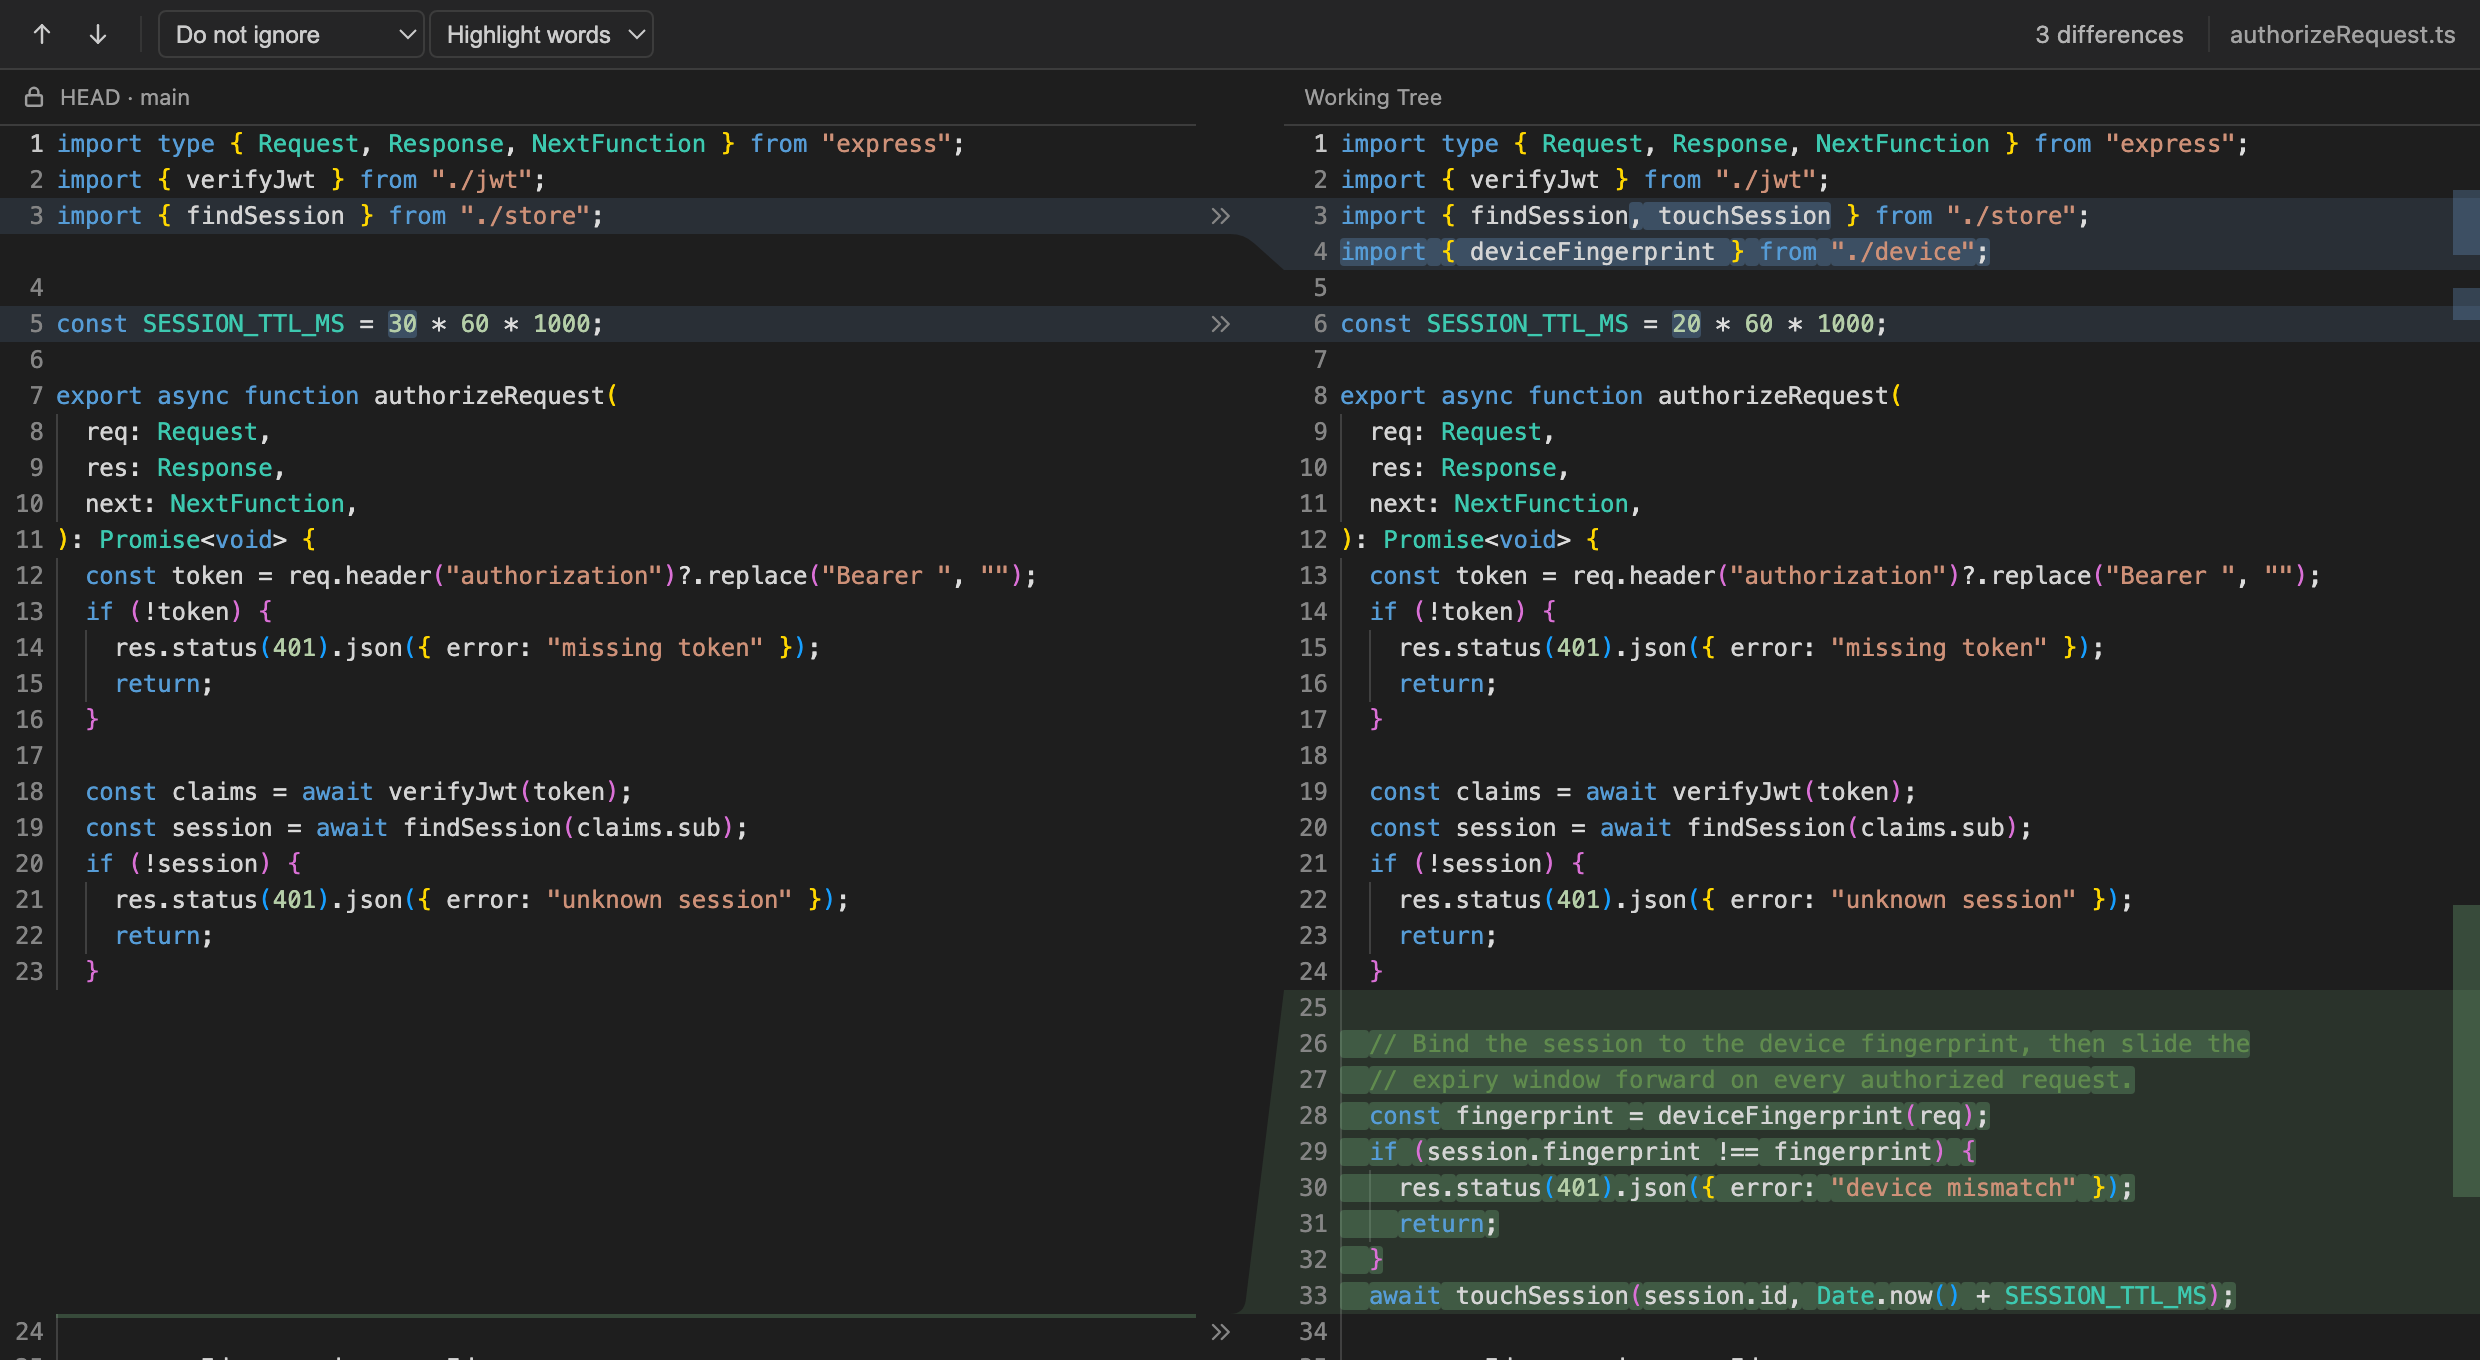
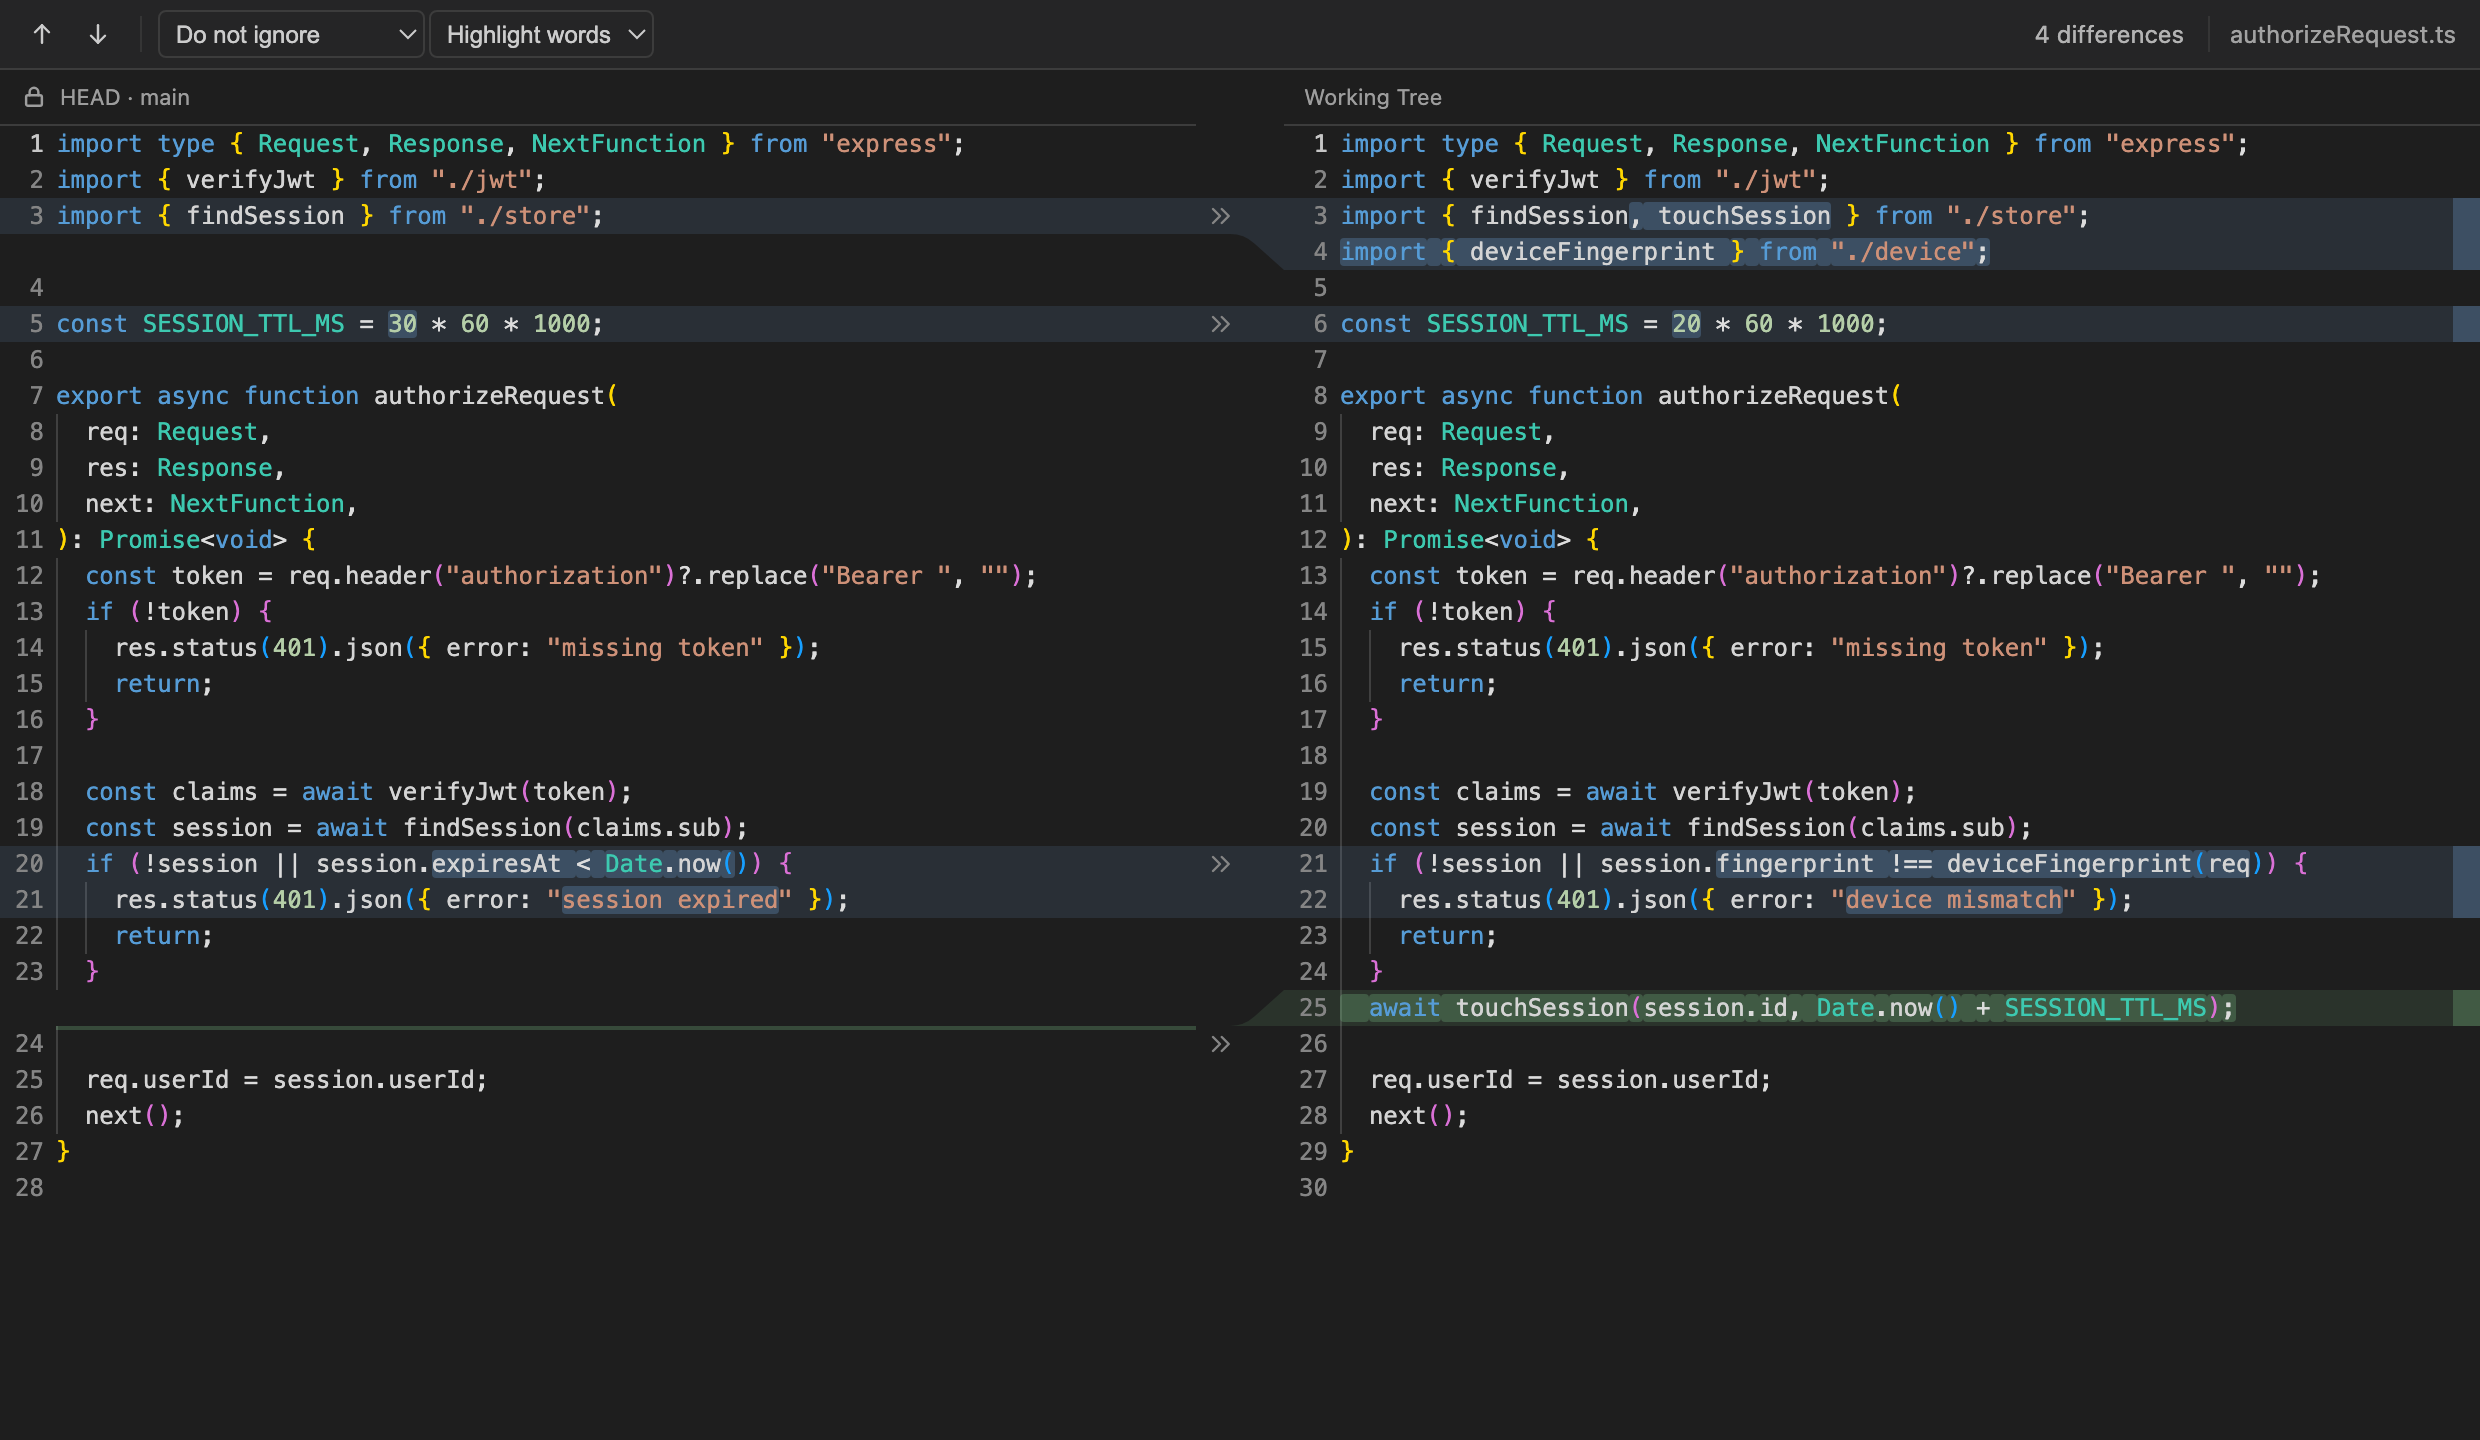
Address review: real modify/modify hero conflict + trim Open VSX from headline
- Rebuild the demo/hero conflict as a true modify/modify clash: base has a real
  session-validation block, and ours (device fingerprint) and theirs (revoked +
  rate-limit + audit) each rewrite it differently — so all three panes, the
  result/middle included, show content being overwritten. Previous version was a
  both-added insertion with an empty middle, which didn't read as a conflict.
- Update DEMO_MERGE + DEMO_DIFF to match (verified DEMO_MERGE parses to a base
  with real content); regenerate merge-editor.png and diff-view.png from it.
- Drop "Open VSX" from the hero headline (obscure term, weak in the marketing
  line); it stays in the badges and install section where it's functional.

diff --git a/src/demoContent.ts b/src/demoContent.ts
@@ -6,7 +6,7 @@
 
 /**
  * Sample side-by-side diff: HEAD vs working tree of an auth middleware.
- * Shows modified lines (intra-line highlights) and a multi-line inserted block.
+ * Shows modified lines (intra-line highlights) and a rewritten block.
  */
 export const DEMO_DIFF = {
   fileName: "authorizeRequest.ts",
@@ -31,8 +31,8 @@ export async function authorizeRequest(
 
   const claims = await verifyJwt(token);
   const session = await findSession(claims.sub);
-  if (!session) {
-    res.status(401).json({ error: "unknown session" });
+  if (!session || session.expiresAt < Date.now()) {
+    res.status(401).json({ error: "session expired" });
     return;
   }
 
@@ -60,15 +60,7 @@ export async function authorizeRequest(
 
   const claims = await verifyJwt(token);
   const session = await findSession(claims.sub);
-  if (!session) {
-    res.status(401).json({ error: "unknown session" });
-    return;
-  }
-
-  // Bind the session to the device fingerprint, then slide the
-  // expiry window forward on every authorized request.
-  const fingerprint = deviceFingerprint(req);
-  if (session.fingerprint !== fingerprint) {
+  if (!session || session.fingerprint !== deviceFingerprint(req)) {
     res.status(401).json({ error: "device mismatch" });
     return;
   }
@@ -81,9 +73,11 @@ export async function authorizeRequest(
 } as const;
 
 /**
- * Sample 3-way merge: two real, multi-line conflicts (one branch hardens the
- * session by binding it to the device, the other adds rate-limiting + audit
- * logging) plus one auto-resolvable change (the TTL, touched only on `ours`).
+ * Sample 3-way merge: the session-validation block was rewritten on BOTH
+ * branches (ours binds the session to the device; theirs adds rate-limiting +
+ * audit logging) — a true modify/modify conflict where every side overwrites
+ * the same lines — plus a second conflict in the imports and one auto-resolvable
+ * change (the TTL, touched only on `ours`).
  */
 export const DEMO_MERGE = {
   fileName: "authorizeRequest.ts",
@@ -121,26 +115,23 @@ export async function authorizeRequest(
 
   const claims = await verifyJwt(token);
   const session = await findSession(claims.sub);
-  if (!session) {
-    res.status(401).json({ error: "unknown session" });
-    return;
-  }
-
 <<<<<<< ours
-  // Bind the session to the device fingerprint, then slide the
-  // expiry window forward on every authorized request.
-  const fingerprint = deviceFingerprint(req);
-  if (session.fingerprint !== fingerprint) {
+  if (!session || session.fingerprint !== deviceFingerprint(req)) {
     res.status(401).json({ error: "device mismatch" });
     return;
   }
   await touchSession(session.id, Date.now() + SESSION_TTL_MS);
 ||||||| base
+  if (!session || session.expiresAt < Date.now()) {
+    res.status(401).json({ error: "session expired" });
+    return;
+  }
 =======
-  // Enforce a per-user rate limit and write an audit entry so the
-  // security team can trace every access after the fact.
-  const allowed = await rateLimiter.take(session.userId);
-  if (!allowed) {
+  if (!session || session.revoked) {
+    res.status(401).json({ error: "session revoked" });
+    return;
+  }
+  if (!(await rateLimiter.take(session.userId))) {
     res.status(429).json({ error: "rate limited" });
     return;
   }

diff --git a/README.md b/README.md
@@ -1,7 +1,7 @@
 <h1 align="center">Merge Studio</h1>
 
 <p align="center">
-  <b>A beautiful, powerful way to resolve merge conflicts — in VS Code, Cursor, and Open VSX.</b>
+  <b>A beautiful, powerful way to resolve merge conflicts — in VS Code and Cursor.</b>
 </p>
 
 <p align="center">